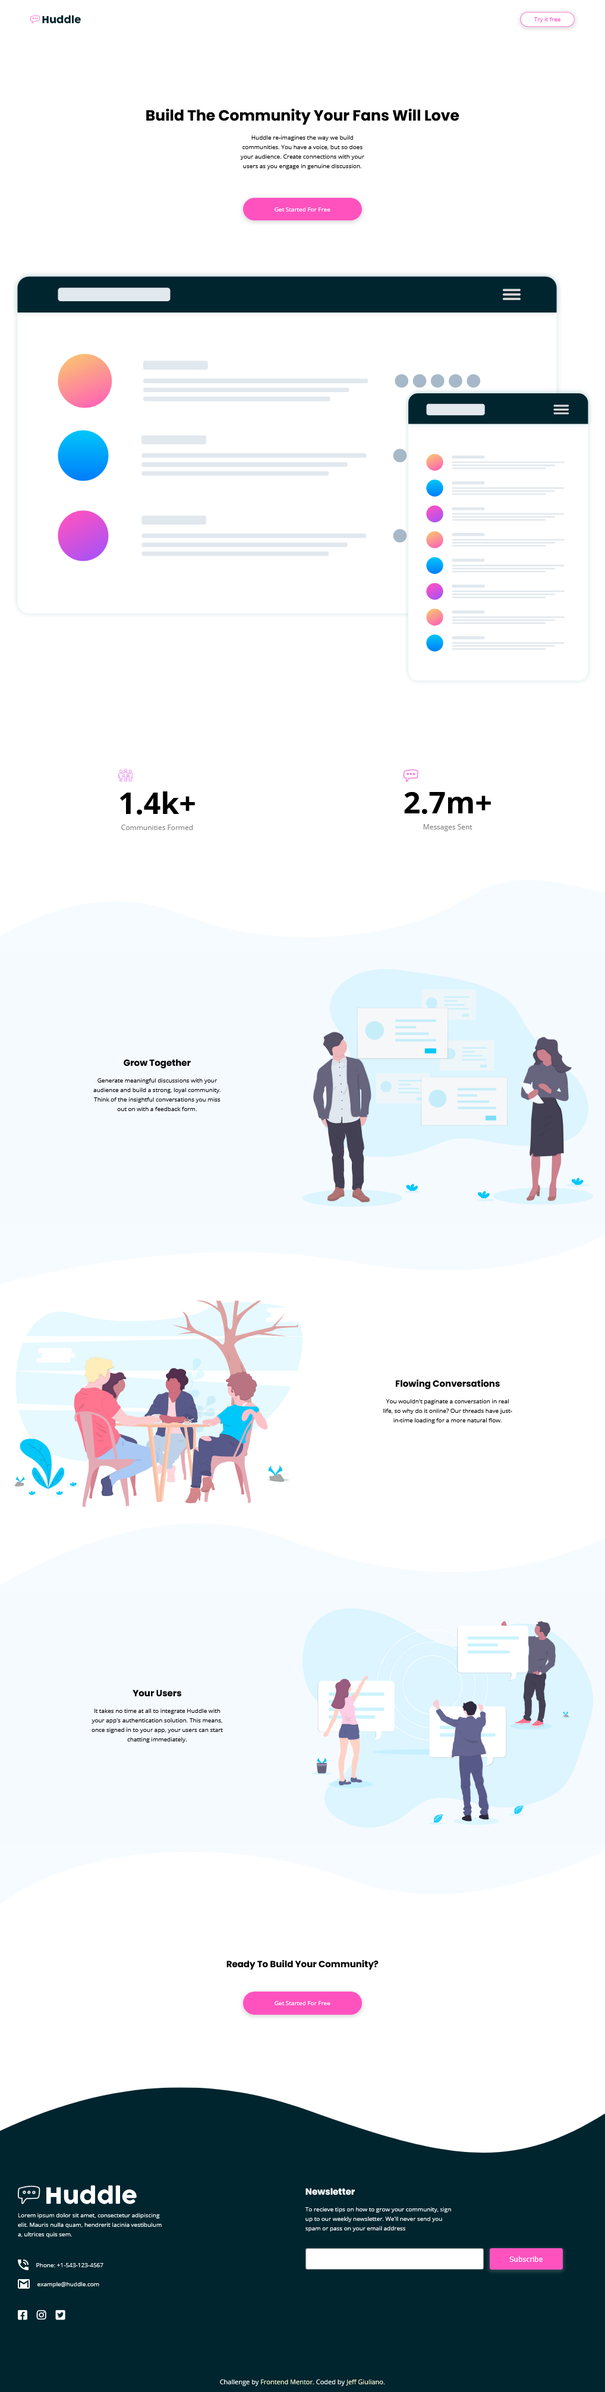
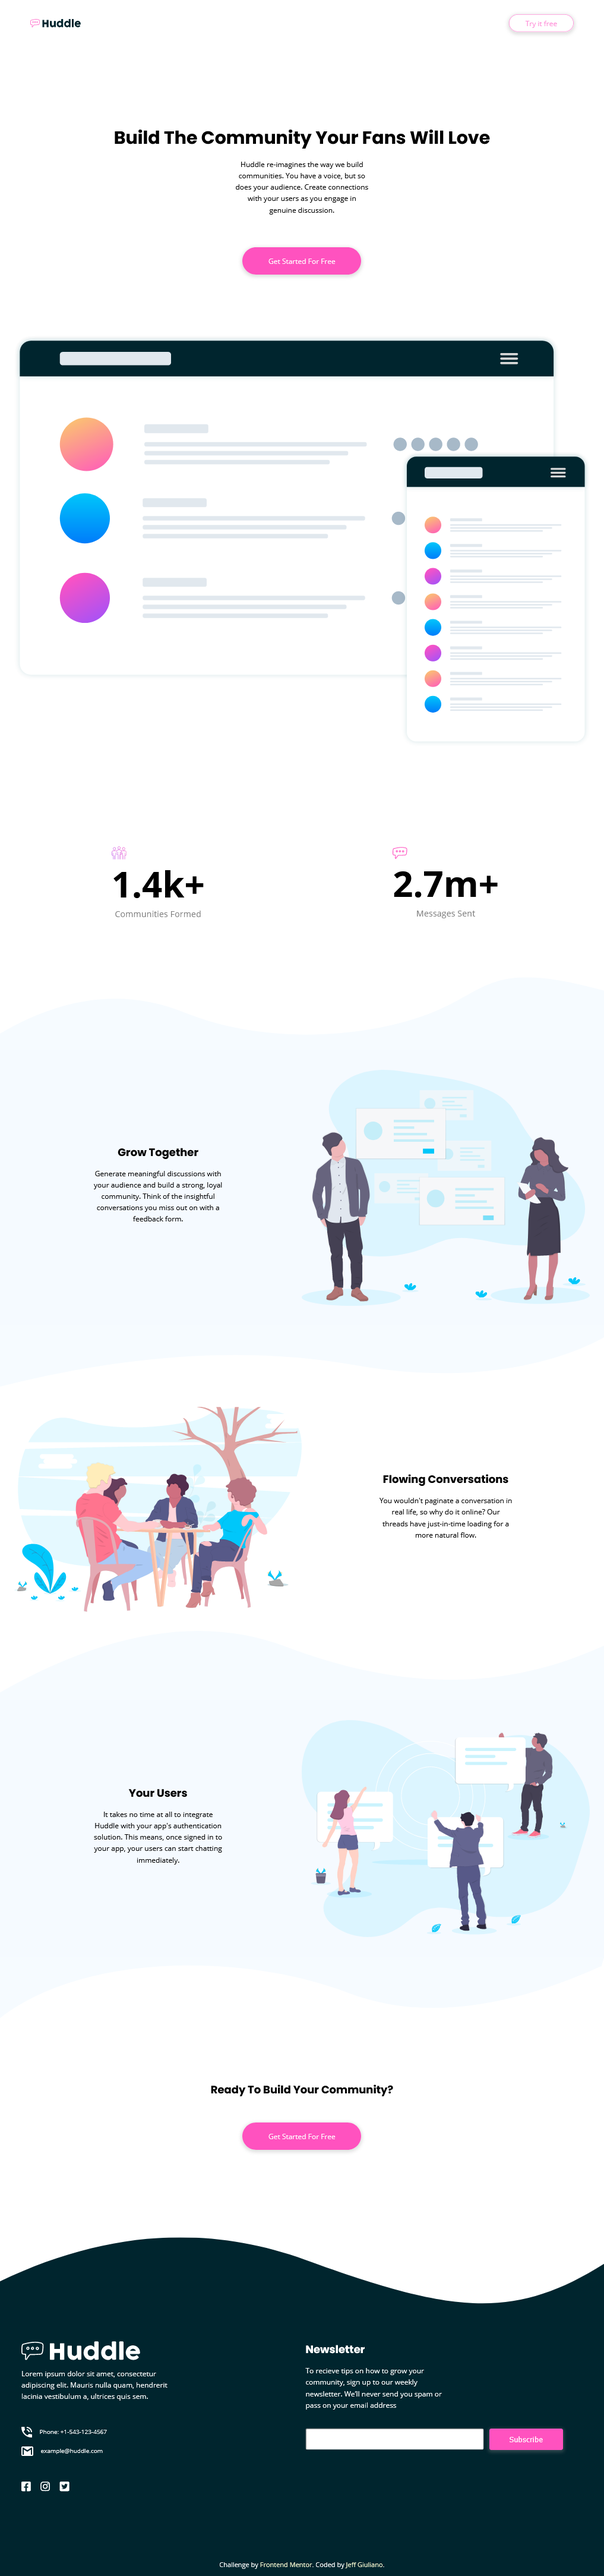
Tweaked typography.

diff --git a/styles.css b/styles.css
@@ -24,7 +24,7 @@
 }
 
 html {
-  font-size: 10px;
+  font-size: 12px;
 }
 
 body {
@@ -77,6 +77,12 @@ h1,
 
 .contact-text {
   vertical-align: middle;
+}
+
+.phone-contact,
+.email-contact,
+small {
+  font-size: 10px;
 }
 
 .fab {
